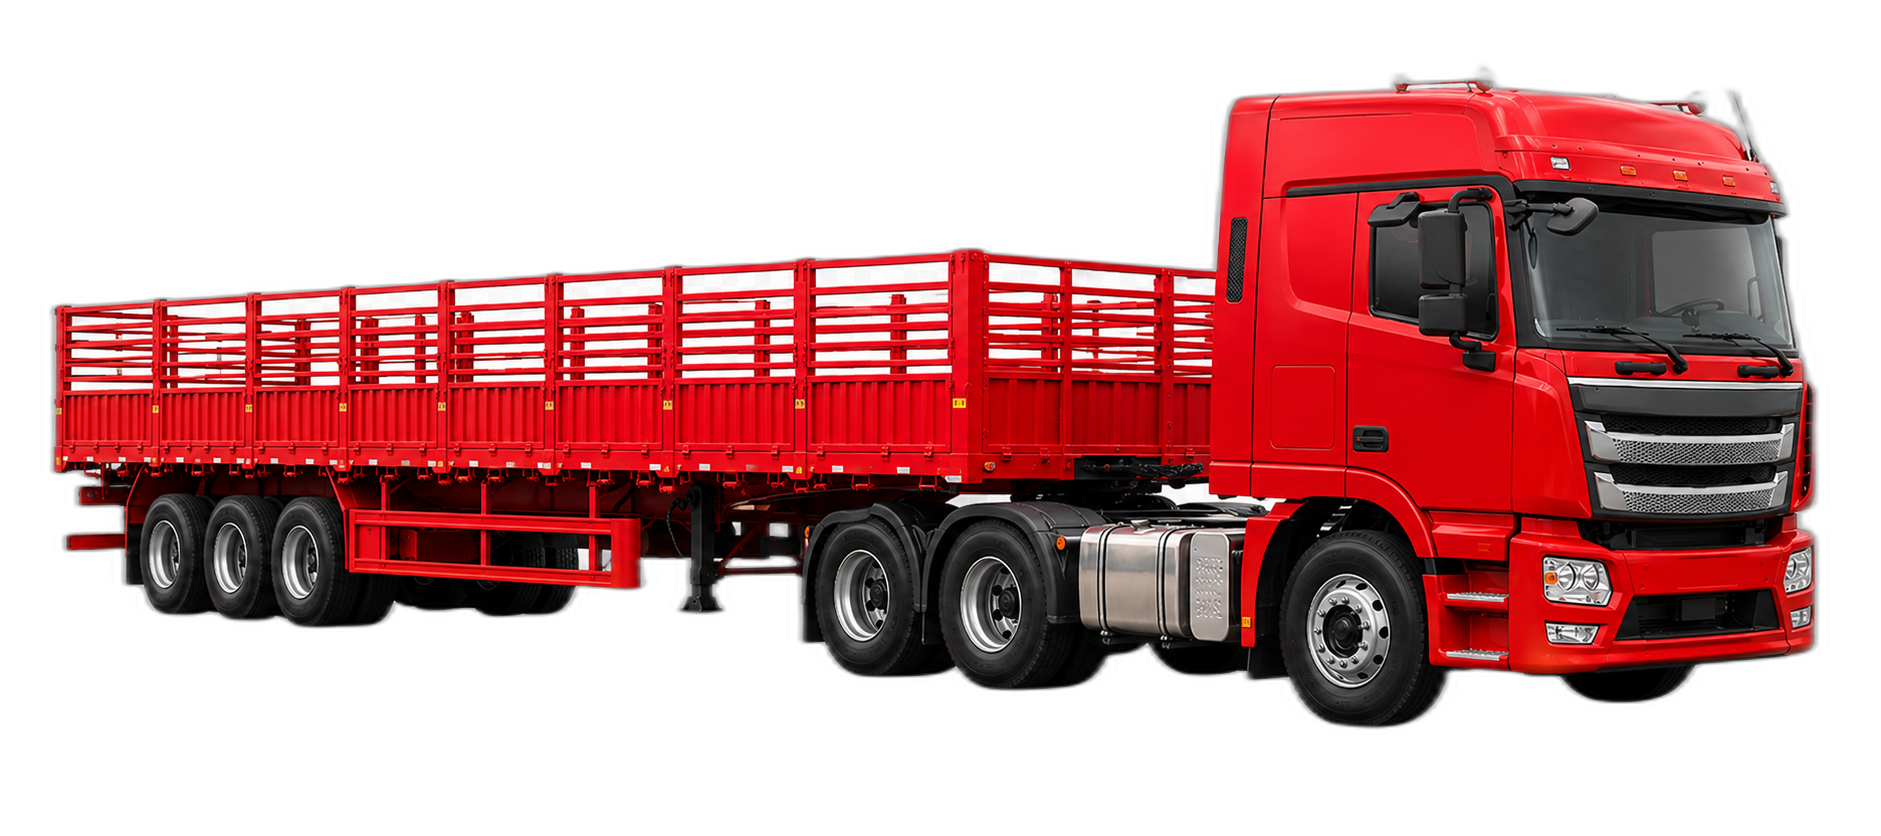
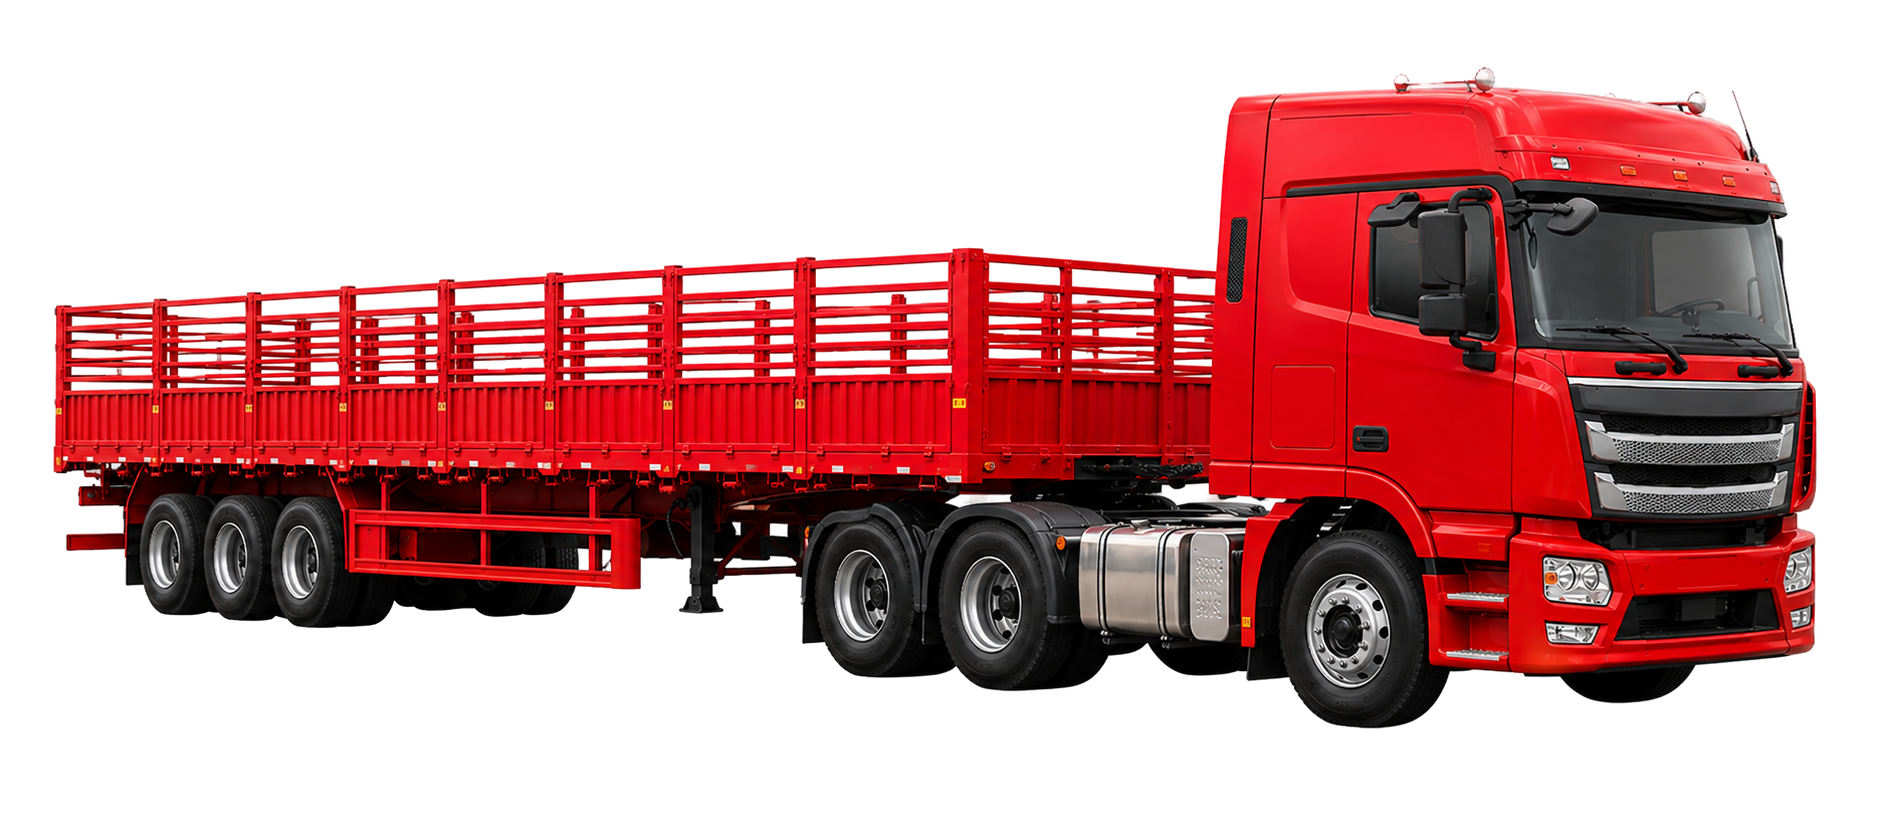
fix(fence): rembg isnet+alpha matting 重扣栏柱空隙白底残留
之前 u2net 默认参数在栏柱之间留 2.6% 白底+0.6% 浅灰边,
丽丽戳'仓栏车没扣干净'。

换 isnet-general-use 模型(对栏栅类复杂结构精度更高)
+ alpha_matting=True 边缘精细化(threshold=240/10, erode=2)
结果:白底 2.6%→0.3%,浅灰 0.6%→0.3%,真车身 44.7%→44.3% 不误扣。

bump v=20260618c → v=20260618d 破浏览器缓存。

[no-skill]

diff --git a/configurator.js b/configurator.js
@@ -283,21 +283,21 @@ const vehicleLabel = document.getElementById('vehicleLabel');
 const vehicleWrapper = document.getElementById('vehicleWrapper');
 
 const typeImages = {
-    '直梁平板': 'assets/images/config-base.png?v=20260618c',
-    '高低平板': 'assets/images/config-base-lowbed.png?v=20260618c',
-    '自卸':    'assets/images/config-base-dump.png?v=20260618c',
-    '骨架':    'assets/images/config-base-skeleton.png?v=20260618c',
-    '仓栅':    'assets/images/config-base-fence.png?v=20260618c',
+    '直梁平板': 'assets/images/config-base.png?v=20260618d',
+    '高低平板': 'assets/images/config-base-lowbed.png?v=20260618d',
+    '自卸':    'assets/images/config-base-dump.png?v=20260618d',
+    '骨架':    'assets/images/config-base-skeleton.png?v=20260618d',
+    '仓栅':    'assets/images/config-base-fence.png?v=20260618d',
     '特种':    'assets/images/product-special.jpg'
 };
 
 // webp 显示版本（浏览器展示用；Canvas 换色仍走 typeImages .png）
 const typeImagesDisplay = {
-    '直梁平板': 'assets/images/config-base.webp?v=20260618c',
-    '高低平板': 'assets/images/config-base-lowbed.webp?v=20260618c',
-    '自卸':    'assets/images/config-base-dump.webp?v=20260618c',
-    '骨架':    'assets/images/config-base-skeleton.webp?v=20260618c',
-    '仓栅':    'assets/images/config-base-fence.webp?v=20260618c',
+    '直梁平板': 'assets/images/config-base.webp?v=20260618d',
+    '高低平板': 'assets/images/config-base-lowbed.webp?v=20260618d',
+    '自卸':    'assets/images/config-base-dump.webp?v=20260618d',
+    '骨架':    'assets/images/config-base-skeleton.webp?v=20260618d',
+    '仓栅':    'assets/images/config-base-fence.webp?v=20260618d',
     '特种':    'assets/images/product-special.jpg'
 };
 

diff --git a/configurator.html b/configurator.html
@@ -86,11 +86,11 @@
     <!-- 车辆展示区 -->
     <div class="vehicle-stage" id="vehicleStage">
         <div class="vehicle-wrapper" id="vehicleWrapper">
-            <img src="assets/images/config-base.webp?v=20260618c" alt="车辆" id="vehicleImg" class="vehicle-img" loading="lazy" decoding="async">
+            <img src="assets/images/config-base.webp?v=20260618d" alt="车辆" id="vehicleImg" class="vehicle-img" loading="lazy" decoding="async">
         </div>
         <!-- 车辆下方的光影反射 -->
         <div class="vehicle-reflection" id="vehicleReflection">
-            <img src="assets/images/config-base.webp?v=20260618c" alt="" class="reflection-img" id="reflectionImg" loading="lazy" decoding="async">
+            <img src="assets/images/config-base.webp?v=20260618d" alt="" class="reflection-img" id="reflectionImg" loading="lazy" decoding="async">
         </div>
         <!-- 车辆名称 -->
         <div class="vehicle-label" id="vehicleLabel">
@@ -117,7 +117,7 @@
                 <label class="type-option">
                     <input type="radio" name="vehicleType" value="直梁平板" checked>
                     <div class="type-inner">
-                        <picture><source type="image/webp" srcset="assets/images/config-base.webp?v=20260618c"><img src="assets/images/config-base.png" alt="平板半挂车" loading="lazy" decoding="async"></picture>
+                        <picture><source type="image/webp" srcset="assets/images/config-base.webp?v=20260618d"><img src="assets/images/config-base.png" alt="平板半挂车" loading="lazy" decoding="async"></picture>
                         <span class="type-name">平板半挂车</span>
                         <span class="type-desc">直梁平板 · 通用运输</span>
                     </div>
@@ -257,6 +257,6 @@
         </div>
     </div>
 
-    <script src="configurator.js?v=20260618c" defer></script>
+    <script src="configurator.js?v=20260618d" defer></script>
 </body>
 </html>